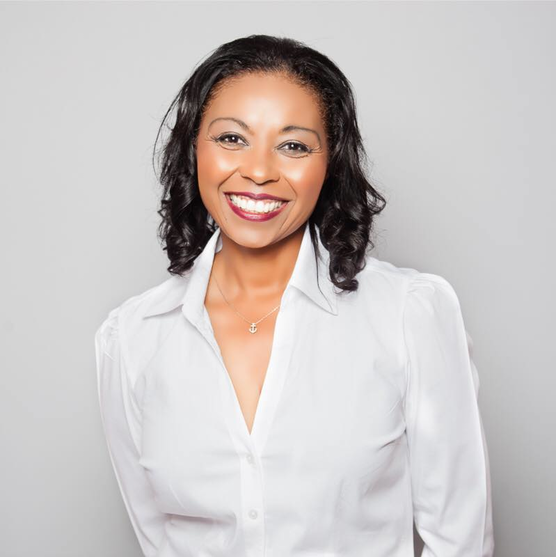
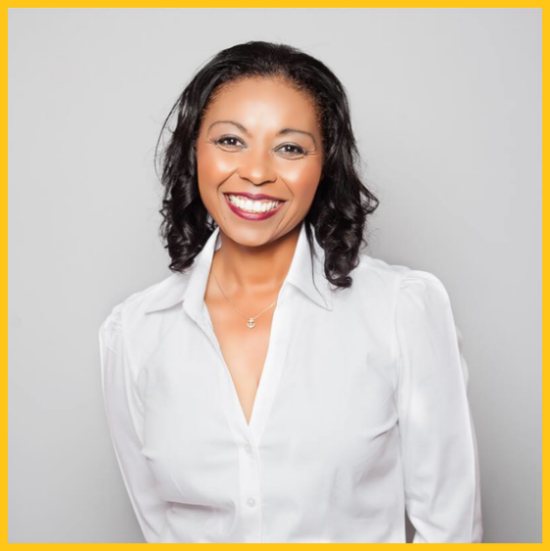
some changes

diff --git a/index.html b/index.html
@@ -6,7 +6,7 @@
 	<meta name="description" content="MyResume - HTML5 Portfolio Template">
 	<meta name="keywords" content="MyResume, Bootstrap, portfolio page, Template, portfolio Landing">
 	<meta name="viewport" content="width=device-width, initial-scale=1">
-	<title>MyResume - Personal Portfolio Template</title> 
+	<title>Gail Wilson - Personal Web Page</title> 
 
 	<!-- Favicon -->
 	<link rel="shortcut icon" href="images/favicon.ico" type="image/x-icon">
@@ -99,8 +99,8 @@
                         <div class="col-sm-5">
                             <div class="intro-image">
 
-                                    <div class="image-frame">
-                                        <img src="images/main_foto.png" alt="" class="img-responsive">
+                                    <div class="">
+                                        <img style="max-width: 98%;" src="images/main_foto.png" alt="" class="img-responsive">
                                     </div>
 
                             </div><!-- Ends: .intro-image -->
@@ -600,17 +600,21 @@
     <!-- ==========================
             Footer
     =========================== -->
-    <footer>
+    <footer style="background-color: #364b5c;">
         <div class="container">
             <div class="row">
                 <div class="col-sm-6">
-                    <p>&copy; Copyright 2017 All Rights Reserved by <a href="">EcologyTheme</a></p>
+                    <a href="http://www.meltingpotsolutions.co">
+                    <p style="display: inline-block;">Proudly developed by <b>Melting Pot Solutions LLC</b> </p>
+                    <img src="images/mps.png" alt="Smiley face" height="auto" width="100" style="position: relative; left: 10%;">
+                </a>
+                    
                 </div>
                 <div class="col-sm-6">
                     <ul class="list-unstyled">
-                        <li><a href="https://www.facebook.com/gail.giarratanophd"><i class="fa fa-facebook"></i></a></li>
-                        <li><a href="https://twitter.com/InfoAnchorshred"><i class="fa fa-twitter"></i></a></li>
-                        <li><a href="https://www.linkedin.com/in/gail-wilson-giarratanophd-0455849/"><i class="fa fa-linkedin"></i></a></li>
+                        <li><a href="https://www.facebook.com/gail.giarratanophd"><i style="color: white;" class="fa fa-facebook"></i></a></li>
+                        <li><a href="https://twitter.com/InfoAnchorshred"><i style="color: white;" class="fa fa-twitter"></i></a></li>
+                        <li><a href="https://www.linkedin.com/in/gail-wilson-giarratanophd-0455849/"><i style="color: white;" class="fa fa-linkedin"></i></a></li>
                     </ul>
                 </div>
             </div>

diff --git a/css/style.css b/css/style.css
@@ -1266,10 +1266,11 @@ footer {
 
 footer p {
     margin-bottom: 0;
+    color: white;
 }
 
 footer p a {
-    color: #ffc815;
+    color: white;
 }
 footer p a:hover{
     color: #2f4151;
